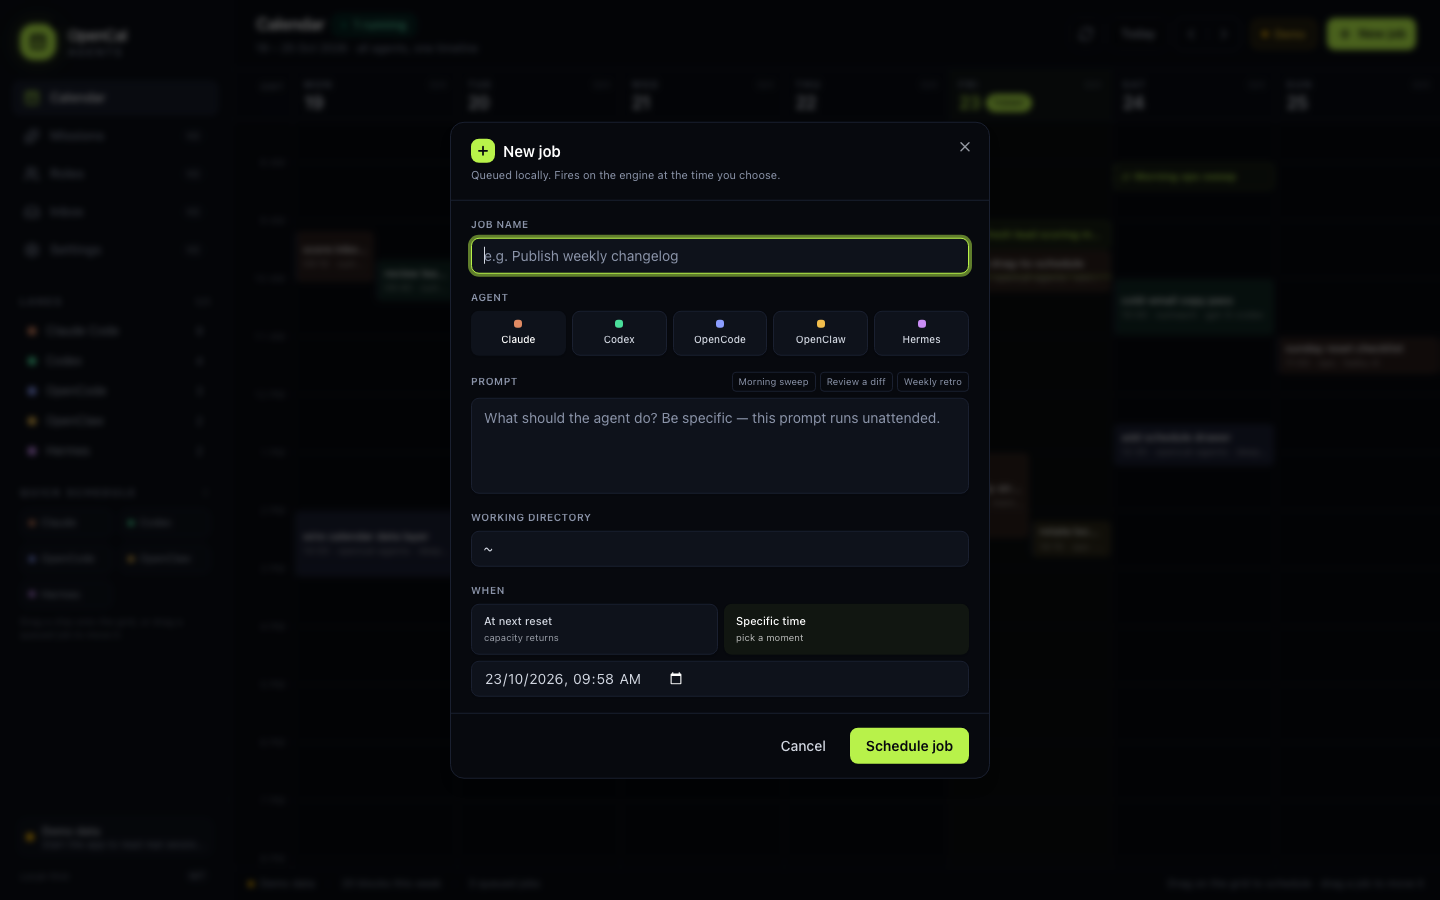
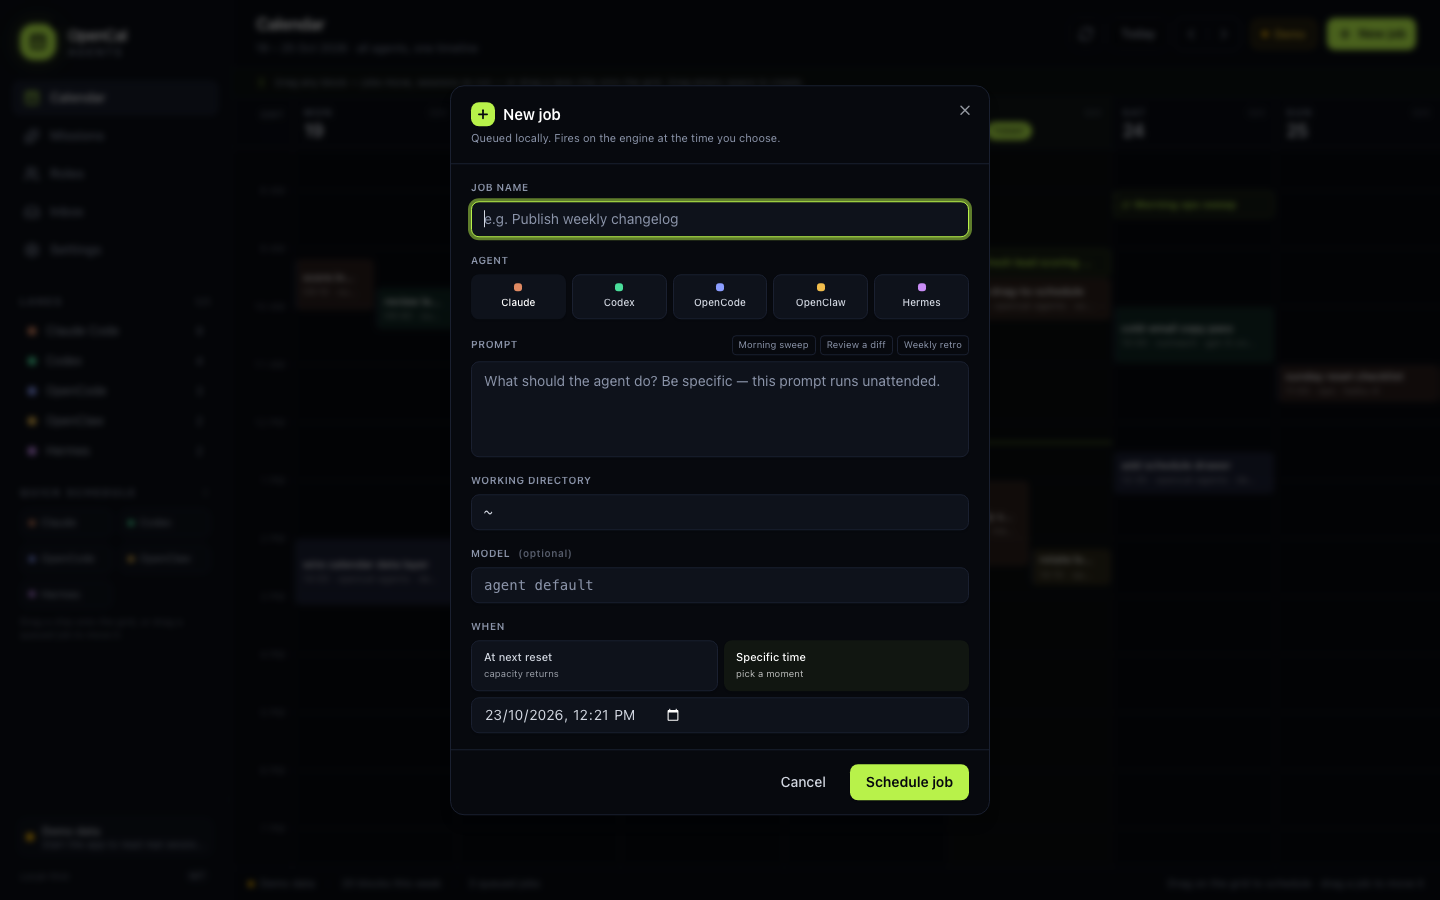
fix(scheduler): make headless OpenCode runs reliable
Verified end-to-end: a scheduled OpenCode job fired on time, ran in a
scratch repo, created its file, and returned a receipt (changed, +1).

- close stdin for one-shot agent spawns (OpenCode blocks on an open pipe)
- set PWD to the job cwd (spawn changes cwd but leaves PWD on the app)
- add --standalone so runs don't depend on the desktop background service
- extend the engine PATH with ~/.opencode/bin, ~/.local/bin and nvm
- scrub OPENCODE_* desktop-session vars before starting the engine
- expose an optional Model field in the job dialog (OpenCode needs one;
  its default free model can be unavailable)
- document the verified flow and the OpenCode model caveat

diff --git a/src/components/NewJobDialog.tsx b/src/components/NewJobDialog.tsx
@@ -62,6 +62,7 @@ export function NewJobDialog({
   const [cwd, setCwd] = useState("~");
   const [whenType, setWhenType] = useState<"next_reset" | "at">("next_reset");
   const [whenValue, setWhenValue] = useState("");
+  const [model, setModel] = useState("");
   const [error, setError] = useState<string | null>(null);
   const [busy, setBusy] = useState(false);
 
@@ -71,6 +72,7 @@ export function NewJobDialog({
     setAgent(initialAgent);
     setPrompt(initialPrompt);
     setCwd(initialCwd || "~");
+    setModel("");
     setError(null);
     setBusy(false);
     if (initialStart) {
@@ -113,6 +115,7 @@ export function NewJobDialog({
         cwd: cwd.trim(),
         whenType,
         whenValue: whenType === "next_reset" ? agent : whenValue,
+        model: model.trim() || undefined,
       });
       onClose();
     } catch (err) {
@@ -229,6 +232,29 @@ export function NewJobDialog({
                 placeholder="~/Documents/Github/my-project"
                 className="border-ink-700 bg-ink-850 font-mono text-[11.5px]"
               />
+            </div>
+
+            <div className="space-y-1.5">
+              <Label
+                htmlFor="job-model"
+                className="text-[10px] font-semibold uppercase tracking-wider text-mist-400"
+              >
+                Model <span className="normal-case opacity-60">(optional)</span>
+              </Label>
+              <Input
+                id="job-model"
+                value={model}
+                onChange={(e) => setModel(e.target.value)}
+                placeholder="agent default"
+                className="border-ink-700 bg-ink-850 font-mono text-[11.5px]"
+              />
+              {agent === "opencode" && (
+                <p className="text-[9.5px] leading-snug text-mist-400/70">
+                  OpenCode needs an explicit model, e.g.{" "}
+                  <span className="font-mono">opencode/mimo-v2.6-flash-free</span>.
+                  The default free model can be unavailable.
+                </p>
+              )}
             </div>
 
             <div className="space-y-1.5">

diff --git a/engine/src/schedules.js b/engine/src/schedules.js
@@ -540,7 +540,15 @@ export function createScheduler(db, cfg, bus, hq = null) {
     if (hasTmux && !spec.headless) return fireClaudeTmux(s, spec, audit, logFile)
     const basePromise = gitHead(spec.cwd)
     const [bin, ...args] = agentCommand(spec)
-    const child = spawn(bin, args, { cwd: spec.cwd, env: process.env })
+    const child = spawn(bin, args, {
+      cwd: spec.cwd,
+      // spawn() changes cwd but leaves PWD inherited from the app. CLIs that
+      // trust PWD (OpenCode does) run in the wrong directory and can hang.
+      env: { ...process.env, PWD: spec.cwd || process.cwd() },
+      // Headless one-shot CLIs must not inherit an open stdin pipe: OpenCode
+      // blocks waiting for EOF and the job stays "running" forever.
+      stdio: ['ignore', 'pipe', 'pipe'],
+    })
     const log = createWriteStream(logFile)
     log.write(`# agentcal run ${s.id}\n# ${JSON.stringify(audit)}\n\n`)
     child.stdout.pipe(log, { end: false })
@@ -783,7 +791,9 @@ export function createScheduler(db, cfg, bus, hq = null) {
     if (spec.agent === 'opencode') {
       // run = the non-interactive mode; model is provider/model form
       // (e.g. openrouter/moonshotai/kimi-k3); --auto approves permissions
-      return ['opencode', 'run',
+      // OpenCal patch: a scheduled run must not depend on the desktop app's
+      // background service — --standalone starts a private server per run.
+      return ['opencode', 'run', '--standalone',
         ...(spec.model ? ['-m', spec.model] : []),
         ...(spec.fullAuto ? ['--auto'] : []),
         spec.prompt]

diff --git a/engine/src/drivers/codex.js b/engine/src/drivers/codex.js
@@ -67,6 +67,8 @@ export function runCodexJob(spec) {
   // same deal as ANTHROPIC_API_KEY in the claude driver: the CLI owns its own
   // ChatGPT login, and a leaked API key silently flips billing to pay-as-you-go
   delete env.OPENAI_API_KEY
+  // spawn() changes cwd but leaves PWD inherited from the app.
+  env.PWD = spec.cwd
 
   const child = spawn(CODEX_CLI, ['app-server'], {
     cwd: spec.cwd,

diff --git a/engine/src/drivers/claude.js b/engine/src/drivers/claude.js
@@ -105,6 +105,8 @@ export function runClaudeJob(spec) {
   // (dogfooding), don't let the nested CLI inherit that session's identity
   delete env.CLAUDECODE
   delete env.CLAUDE_CODE_ENTRYPOINT
+  // spawn() changes cwd but leaves PWD inherited from the app.
+  env.PWD = spec.cwd
 
   const child = spawn(CLI, argsFor(spec), {
     cwd: spec.cwd,

diff --git a/src/App.tsx b/src/App.tsx
@@ -353,6 +353,7 @@ export default function App() {
         agent: input.agent,
         prompt: input.prompt,
         cwd: input.cwd,
+        ...(input.model ? { model: input.model } : {}),
       }),
       status: "pending",
       fire_at: Number.isFinite(fireAt) ? fireAt : Date.now() + 3_600_000,

diff --git a/src-tauri/src/lib.rs b/src-tauri/src/lib.rs
@@ -62,8 +62,67 @@ fn node_binary() -> PathBuf {
     PathBuf::from("node")
 }
 
-fn engine_script(app: &tauri::AppHandle) -> Option<PathBuf> {
-    if let Ok(explicit) = std::env::var("OPENCAL_ENGINE") {
+/// The app may be launched from Finder with a minimal PATH, and agent CLIs
+/// often live outside it (OpenCode in ~/.opencode/bin, Codex/Hermes in
+/// ~/.local/bin, nvm/npm globals under ~/.nvm). Build a PATH that includes
+/// those before starting the engine.
+fn agent_path() -> String {
+    use std::collections::HashSet;
+
+    let mut parts: Vec<String> = Vec::new();
+
+    if let Ok(home) = std::env::var("HOME") {
+        let h = PathBuf::from(&home);
+        for rel in [".opencode/bin", ".local/bin", ".bun/bin", ".cargo/bin"] {
+            let p = h.join(rel);
+            if p.exists() {
+                parts.push(p.to_string_lossy().into_owned());
+            }
+        }
+
+        let root = h.join(".nvm/versions/node");
+        if let Ok(entries) = std::fs::read_dir(&root) {
+            let mut dirs: Vec<PathBuf> = entries.flatten().map(|e| e.path()).collect();
+            dirs.sort_by_key(|p| std::fs::metadata(p).and_then(|m| m.modified()).ok());
+            if let Some(dir) = dirs.last() {
+                let bin = dir.join("bin");
+                if bin.exists() {
+                    parts.push(bin.to_string_lossy().into_owned());
+                }
+            }
+        }
+    }
+
+    for p in [
+        "/usr/local/bin",
+        "/opt/homebrew/bin",
+        "/usr/bin",
+        "/bin",
+        "/usr/sbin",
+        "/sbin",
+    ] {
+        if PathBuf::from(p).exists() {
+            parts.push(p.to_string());
+        }
+    }
+
+    if let Ok(existing) = std::env::var("PATH") {
+        for p in existing.split(':') {
+            if !p.is_empty() {
+                parts.push(p.to_string());
+            }
+        }
+    }
+
+    let mut seen = HashSet::new();
+    parts
+        .into_iter()
+        .filter(|p| seen.insert(p.clone()))
+        .collect::<Vec<_>>()
+        .join(":")
+}
+
+fn engine_script(app: &tauri::AppHandle) -> Option<PathBuf> {    if let Ok(explicit) = std::env::var("OPENCAL_ENGINE") {
         let path = PathBuf::from(explicit);
         if path.exists() {
             return Some(path);
@@ -126,12 +185,24 @@ fn start_engine(app: tauri::AppHandle) -> Result<bool, String> {
     };
 
     let node = node_binary();
-    Command::new(&node)
-        .arg(&script)
+    let mut cmd = Command::new(&node);
+    cmd.arg(&script)
+        .env("PATH", agent_path())
         .stdin(Stdio::null())
         .stdout(Stdio::null())
-        .stderr(Stdio::null())
-        .spawn()
+        .stderr(Stdio::null());
+
+    // The OpenCode desktop app injects OPENCODE_CLIENT / OPENCODE_SESSION_ID /
+    // OPENCODE_TERMINAL into every process it launches. Those point the CLI at
+    // the desktop session and make a scheduled `opencode run` retry a dead
+    // endpoint. Scheduled runs need a clean slate.
+    for (key, _) in std::env::vars() {
+        if key == "OPENCODE" || key.starts_with("OPENCODE_") {
+            cmd.env_remove(&key);
+        }
+    }
+
+    cmd.spawn()
         .map_err(|e| {
             STARTED.store(false, Ordering::SeqCst);
             format!("could not start {}: {e}", node.display())

diff --git a/README.md b/README.md
@@ -95,6 +95,12 @@ approve or deny.
 - **Queued jobs** render as dashed blocks on the calendar.
 - **Auto-refresh** every 12 seconds and on window focus.
 
+### Verified end-to-end
+
+- **OpenCode**: a job scheduled through the engine fired on time, ran headless
+  in a throwaway git repo, created `SCHEDULED.md`, and returned a receipt —
+  `outcome: changed`, `1 file`, `+1` insertion, exit `0`, ~10 s.
+
 ## Roadmap
 
 | Version | Scope |
@@ -151,6 +157,12 @@ dialog/drawer state (used for the screenshots above).
   client. Browser-only `pnpm dev` intentionally runs on demo data.
 - Job blocks are fixed at 30 minutes on the grid; resize-to-duration is not
   persisted yet.
+- **OpenCode jobs should set an explicit model** (`opencode/<model>`). Its
+  bundled default (`flint-40b-free`) can hang, and paid models require account
+  funds. The job dialog now has a Model field.
+- Headless one-shot agents run with **stdin closed** and **`PWD` set to the
+  job's working directory**. Both are required for OpenCode and harmless for
+  the other agents; without them a scheduled run can sit in `running` forever.
 
 ## Data & privacy
 

diff --git a/PWD.md b/PWD.md
@@ -1,0 +1,1 @@
+pwd works
